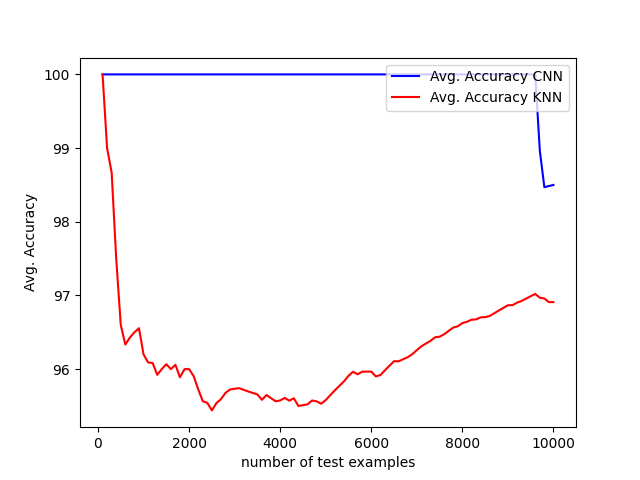
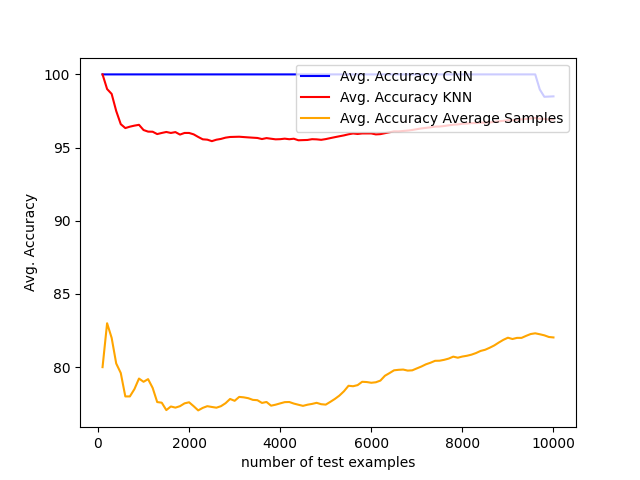
add Average_Samples method

diff --git a/inference.py b/inference.py
@@ -1,7 +1,7 @@
 import torch
 import torchvision
 from torchvision import transforms
-from models import CNN_model, FaissKNeighbors
+from models import CNN_model, FaissKNeighbors, Average_Samples
 from torch.utils.data import DataLoader
 from torchvision.datasets import MNIST
 import matplotlib.pyplot as plt
@@ -69,11 +69,28 @@ def inference_CNN():
     torch.cuda.empty_cache()
     return acc_CNN
     
+def inference_Average_Samples():
+    print('-'*70)
+    print("\tStarting predict in test set with Average_Samples !")
+    print('-'*70)
+    train, target = load_mnist()
+    model = Average_Samples()
+    model.fit(train, target)
+    print('Loading model successfully!\n')
+    
+    test, target = load_mnist(s = 't10k')
+    correct, acc_AS = model.score(test, target, arith_ratio = arith_ratio)
+
+    print('\nAverage_Samples model: Accuracy: {}/{} ({:.0f}%)\n'.format(correct, len(target),
+                                                                        100. * correct/len(target)))
+    return acc_AS
+
 
 def inference_KNN():
     print('-'*70)
     print("\tStarting predict in test set with {} nearest neighbors !".format(N_NEIGHBORS))
     print('-'*70)
+
     train, target = load_mnist()
     nsamples, nx, ny = train.shape
     d2_train = train.reshape((nsamples, nx*ny))
@@ -89,11 +106,12 @@ def inference_KNN():
                                                                         100. * correct/len(target)))
     return acc_KNN
 
-def plot_result(acc_CNN, acc_KNN):
+def plot_result(acc_CNN, acc_KNN, acc_AS):
     fig = plt.figure()
     plt.plot(np.arange(arith_ratio, 10001, arith_ratio), acc_CNN, color = 'blue')
     plt.plot(np.arange(arith_ratio, 10001, arith_ratio), acc_KNN, color = 'red')
-    plt.legend(['Avg. Accuracy CNN', 'Avg. Accuracy KNN'], loc = 'upper right')
+    plt.plot(np.arange(arith_ratio, 10001, arith_ratio), acc_AS, color = 'orange')
+    plt.legend(['Avg. Accuracy CNN', 'Avg. Accuracy KNN', 'Avg. Accuracy Average Samples'], loc = 'upper right')
     plt.xlabel('number of test examples')
     plt.ylabel('Avg. Accuracy')
     plt.savefig(os.path.join('./results', 'result_acc.png'))
@@ -102,5 +120,6 @@ if __name__ == '__main__':
     init()
     acc_CNN = inference_CNN()
     acc_KNN = inference_KNN()
+    acc_AS =  inference_Average_Samples()
     if save:
-        plot_result(acc_CNN, acc_KNN)
+        plot_result(acc_CNN, acc_KNN, acc_AS)

diff --git a/models.py b/models.py
@@ -24,6 +24,43 @@ class CNN_model(nn.Module):
         x = self.fc2(x)
         return F.log_softmax(x)
 
+class Average_Samples:
+    def __init__(self):
+        self.average_samples = []
+
+    def fit(self, X, y):
+        for Class in range(10):
+            average_sample = np.zeros(X[0].shape)
+            count = 0
+            for idx, sample in enumerate(X):
+                if y[idx] == Class:
+                    average_sample += sample
+                    count += 1
+            average_sample /= count
+            self.average_samples.append(average_sample)
+    
+    def euclidean_distance(self, x_1, x_2):
+        x = (x_1 - x_2)**2
+        return np.sum(x)**(1/2)
+
+
+    def predict(self, sample, ground_truth):
+        dist = []
+        for Class in range(10):
+            dist.append(self.euclidean_distance(sample, self.average_samples[Class]))
+        dist = np.array(dist)
+        return np.argmin(dist) == ground_truth
+
+    def score(self, X, y, arith_ratio):
+        correct = 0
+        acc = []
+        for idx, sample in enumerate(X):
+            correct += self.predict(sample, y[idx])
+            if (idx+1)%arith_ratio == 0:
+                acc.append(100. * correct/(idx+1))
+        return correct, acc
+
+
 class FaissKNeighbors:
     def __init__(self, k=1):
         self.index = None
